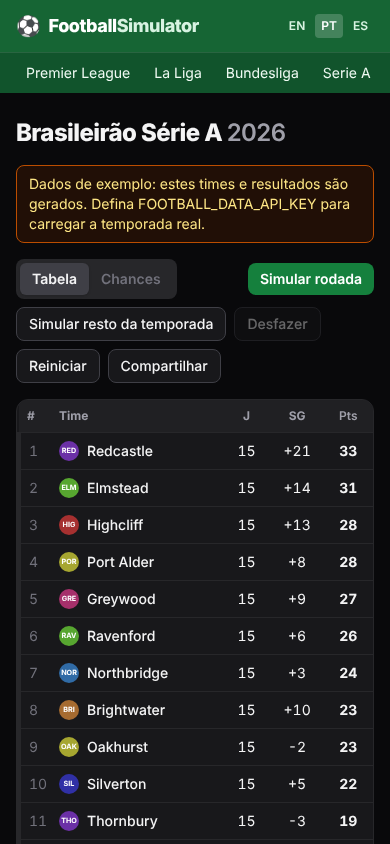
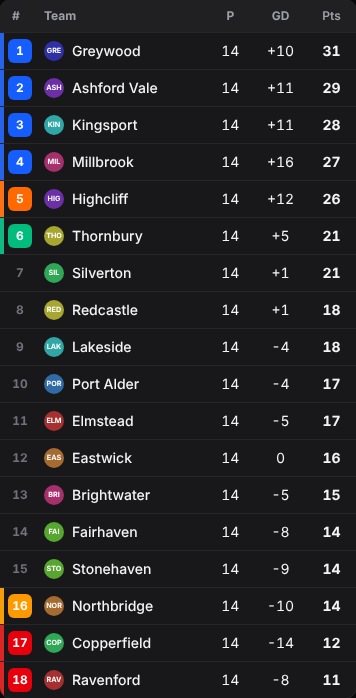
Mark table positions by qualification/relegation zone
The zone was only a left border on each table row, and in dark mode the
row's border colour overrode it, so it disappeared; in light mode it was
a thin, easy-to-miss line. Positions in a zone now show as a coloured
badge matching the legend, plus an inset accent bar on the first cell
that no other style can override. Adds an e2e check in light and dark.

Claude-Session: https://claude.ai/code/session_011usgR8QAfekMAPTZoxEBGk

diff --git a/src/components/StandingsTable.tsx b/src/components/StandingsTable.tsx
@@ -32,7 +32,7 @@ export function StandingsTable({ league, rows, teams, basePoints }: Props) {
         <table className="w-full text-sm" data-testid="standings">
           <thead className="bg-zinc-100 text-xs text-zinc-500 dark:bg-zinc-800/60 dark:text-zinc-400">
             <tr>
-              <th className="w-10 py-2 pl-2 text-left">{t("position")}</th>
+              <th className="w-11 py-2 pl-3 text-left">{t("position")}</th>
               <th className="py-2 text-left">{t("team")}</th>
               <th className={cell}>{t("played")}</th>
               <th className={optional}>{t("won")}</th>
@@ -54,9 +54,23 @@ export function StandingsTable({ league, rows, teams, basePoints }: Props) {
                 <tr
                   key={row.teamId}
                   data-testid="standings-row"
-                  className={`border-t border-l-4 border-zinc-100 dark:border-zinc-800 ${zone ? ZONE_STYLES[zone.kind].bar : "border-l-transparent"}`}
+                  data-zone={zone?.kind ?? ""}
+                  className="border-t border-zinc-100 dark:border-zinc-800"
                 >
-                  <td className="py-2 pl-2 tabular-nums text-zinc-500">{row.position}</td>
+                  <td
+                    className="py-1.5 pl-2"
+                    style={zone ? { boxShadow: `inset 4px 0 0 ${ZONE_STYLES[zone.kind].color}` } : undefined}
+                  >
+                    <span
+                      title={zone ? tz(zone.kind) : undefined}
+                      aria-label={zone ? `${row.position} · ${tz(zone.kind)}` : undefined}
+                      className={`inline-flex h-6 w-6 items-center justify-center rounded-md text-xs font-bold tabular-nums ${
+                        zone ? ZONE_STYLES[zone.kind].dot : "text-zinc-500"
+                      }`}
+                    >
+                      {row.position}
+                    </span>
+                  </td>
                   <td className="py-2">
                     <span className="flex min-w-0 items-center gap-2">
                       <TeamBadge team={team} />

diff --git a/src/components/zones.ts b/src/components/zones.ts
@@ -1,14 +1,15 @@
 import type { ZoneKind } from "../config/leagues.ts";
 
-// Literal class strings so Tailwind can see them at build time.
-export const ZONE_STYLES: Record<ZoneKind, { dot: string; bar: string }> = {
-  championsLeague: { dot: "bg-blue-600 text-white", bar: "border-l-blue-600" },
-  championsLeagueQualifying: { dot: "bg-sky-400 text-white", bar: "border-l-sky-400" },
-  europaLeague: { dot: "bg-orange-500 text-white", bar: "border-l-orange-500" },
-  conferenceLeague: { dot: "bg-emerald-500 text-white", bar: "border-l-emerald-500" },
-  libertadores: { dot: "bg-blue-600 text-white", bar: "border-l-blue-600" },
-  libertadoresQualifying: { dot: "bg-sky-400 text-white", bar: "border-l-sky-400" },
-  sudamericana: { dot: "bg-emerald-500 text-white", bar: "border-l-emerald-500" },
-  relegationPlayoff: { dot: "bg-amber-500 text-white", bar: "border-l-amber-500" },
-  relegation: { dot: "bg-red-600 text-white", bar: "border-l-red-600" },
+// `dot` uses literal Tailwind class strings so Tailwind can see them at build time.
+// `color` is the same colour as a hex value, for inline styles (the row accent bar).
+export const ZONE_STYLES: Record<ZoneKind, { dot: string; color: string }> = {
+  championsLeague: { dot: "bg-blue-600 text-white", color: "#2563eb" },
+  championsLeagueQualifying: { dot: "bg-sky-400 text-white", color: "#38bdf8" },
+  europaLeague: { dot: "bg-orange-500 text-white", color: "#f97316" },
+  conferenceLeague: { dot: "bg-emerald-500 text-white", color: "#10b981" },
+  libertadores: { dot: "bg-blue-600 text-white", color: "#2563eb" },
+  libertadoresQualifying: { dot: "bg-sky-400 text-white", color: "#38bdf8" },
+  sudamericana: { dot: "bg-emerald-500 text-white", color: "#10b981" },
+  relegationPlayoff: { dot: "bg-amber-500 text-white", color: "#f59e0b" },
+  relegation: { dot: "bg-red-600 text-white", color: "#dc2626" },
 };
